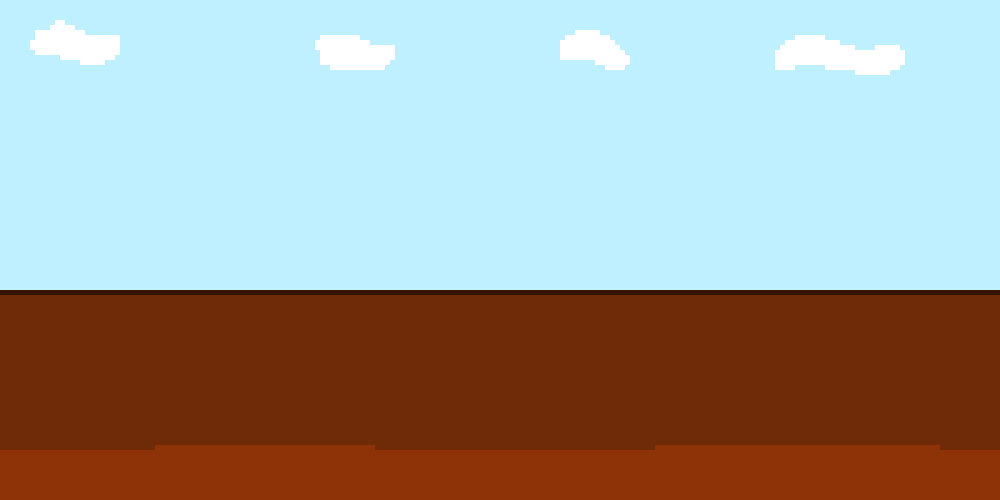
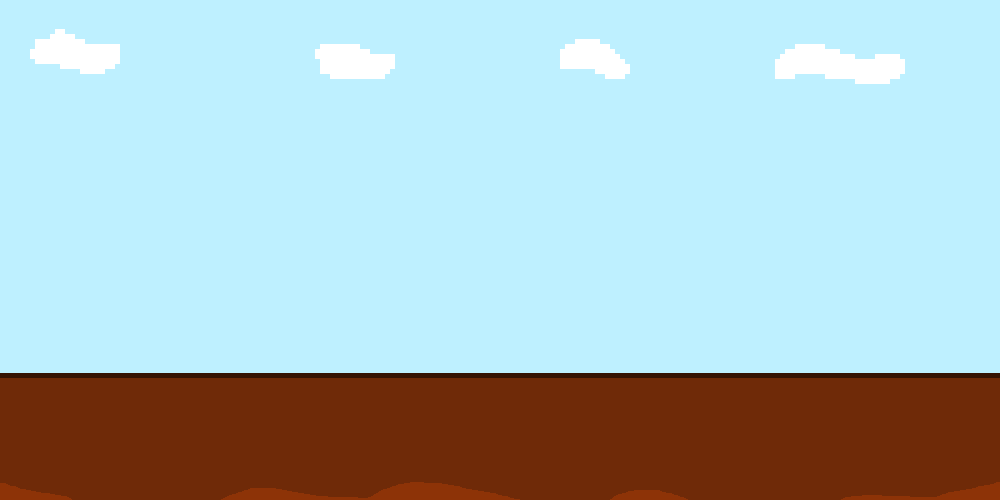
Created max score

diff --git a/background/background.go b/background/background.go
@@ -1,6 +1,7 @@
 package background
 
 import (
+	"bufio"
 	"bytes"
 	"compress/gzip"
 	"context"
@@ -8,6 +9,8 @@ import (
 	"github.com/hajimehoshi/ebiten/v2"
 	"image"
 	"io/ioutil"
+	"log"
+	"os"
 	"strconv"
 	"time"
 )
@@ -40,7 +43,8 @@ func (b *Bg) Draw(screen *ebiten.Image) {
 	op2.GeoM.Translate(b.posX+float64(w), 0)
 	screen.DrawImage(b.bgImg, op2)
 
-	drawDebugText(screen, strconv.Itoa(b.time), 10, 155)
+	drawDebugText(screen, strconv.Itoa(b.time), 10, 195)
+	drawDebugText(screen, strconv.Itoa(b.CheckMaxScore()), 10, 210)
 }
 
 func (b *Bg) Update() {
@@ -129,5 +133,34 @@ func CreateTextImage() *image.RGBA {
 		Pix:    pix,
 		Stride: 4 * imgWidth,
 		Rect:   image.Rect(0, 0, imgWidth, imgHeight),
+	}
+}
+
+func (b *Bg) CheckMaxScore() int {
+	f, _ := os.Open("oleg/resources/best_score.txt")
+	fileR := bufio.NewReader(f)
+	score, _, err := fileR.ReadLine()
+	if err != nil {
+		fmt.Errorf("error reading line: %w", err)
+	}
+	bestScore := string(score)
+	i, err := strconv.Atoi(bestScore)
+	if err != nil {
+		fmt.Println(err)
+		os.Exit(2)
+	}
+	f.Close()
+	if b.time > i {
+		updateMaxScore(strconv.Itoa(b.time))
+	}
+	return i
+}
+
+func updateMaxScore(i string) {
+	f, _ := os.OpenFile("oleg/resources/best_score.txt", os.O_WRONLY|os.O_CREATE|os.O_TRUNC, 333)
+	defer f.Close()
+	_, err := f.WriteString(i)
+	if err != nil {
+		log.Fatalln(err)
 	}
 }

diff --git a/main.go b/main.go
@@ -16,19 +16,19 @@ var bgImg, olegImg, pipeImg, loseImg *ebiten.Image
 
 func init() {
 	var err error
-	bgImg, err = readImg("resources/floorBig.png")
+	bgImg, err = readImg("oleg/resources/floorBig.png")
 	if err != nil {
 		log.Fatal(err)
 	}
-	olegImg, err = readImg("resources/olegsamokat1.png")
+	olegImg, err = readImg("oleg/resources/olegsamokat1.png")
 	if err != nil {
 		log.Fatal(err)
 	}
-	pipeImg, err = readImg("resources/pinkpipe1.png")
+	pipeImg, err = readImg("oleg/resources/pinkpipe1.png")
 	if err != nil {
 		log.Fatal(err)
 	}
-	loseImg, err = readImg("resources/press_any_key.png")
+	loseImg, err = readImg("oleg/resources/press_any_key.png")
 	if err != nil {
 		log.Fatal(err)
 	}
@@ -48,7 +48,7 @@ func readImg(path string) (*ebiten.Image, error) {
 
 func main() {
 	ebiten.SetWindowSize(game.ScreenWidth, game.ScreenHeight)
-	ebiten.SetWindowTitle("Check")
+	ebiten.SetWindowTitle("OLEG MINAYLOW TRAVEL")
 	ebiten.SetVsyncEnabled(true)
 	if err := ebiten.RunGame(game.New(olegImg, pipeImg, bgImg, loseImg)); err != nil {
 		log.Fatal(err)

diff --git a/pipe/pipe.go b/pipe/pipe.go
@@ -9,25 +9,27 @@ import (
 
 const (
 	screenEnd = 800
-	floor     = 212
+	floor     = 295
 )
 
 type Pipe struct {
-	pipeImg  *ebiten.Image
-	posX     float64
-	posY     float64
-	created  time.Time
-	collider image.Rectangle
+	pipeImg   *ebiten.Image
+	posX      float64
+	posY      float64
+	created   time.Time
+	timeStart time.Time
+	collider  image.Rectangle
 }
 
 func New(pipeImg *ebiten.Image) *Pipe {
 	w, h := pipeImg.Size()
 	return &Pipe{
-		pipeImg:  pipeImg,
-		posX:     screenEnd,
-		posY:     floor,
-		created:  time.Now().Add(time.Duration(1+rand.Intn(3)) * time.Second),
-		collider: image.Rect(0, 0, w/2, h),
+		pipeImg:   pipeImg,
+		posX:      screenEnd,
+		posY:      floor,
+		created:   time.Now().Add(time.Duration(1+rand.Intn(3)) * time.Second),
+		timeStart: time.Now(),
+		collider:  image.Rect(0, 0, w/2, h),
 	}
 }
 

diff --git a/game/game.go b/game/game.go
@@ -13,6 +13,8 @@ const (
 	ScreenHeight = 500
 )
 
+var speed = 0
+
 type Game struct {
 	keys      []ebiten.Key
 	state     State
@@ -70,6 +72,7 @@ func (g *Game) Draw(screen *ebiten.Image) {
 func (g *Game) Update() error {
 	if g.Lose {
 		g.state.bg.StopTimer()
+		g.state.bg.CheckMaxScore()
 		if g.isAnyKeyJustPressed() {
 			g.Lose = false
 			g.ResetGame(g)
@@ -88,7 +91,6 @@ func (g *Game) Update() error {
 			g.Lose = true
 		}
 	}
-
 	return nil
 }
 
@@ -106,6 +108,6 @@ func (g *Game) isAnyKeyJustPressed() bool {
 
 func (g *Game) LoseScreen(screen *ebiten.Image) {
 	op := &ebiten.DrawImageOptions{}
-	op.GeoM.Translate(0, -50)
+	op.GeoM.Translate(0, 15)
 	screen.DrawImage(g.loseImg, op)
 }

diff --git a/character/character.go b/character/character.go
@@ -6,7 +6,7 @@ import (
 )
 
 const (
-	floor   = 116
+	floor   = 193
 	gravity = 0.32
 )
 
